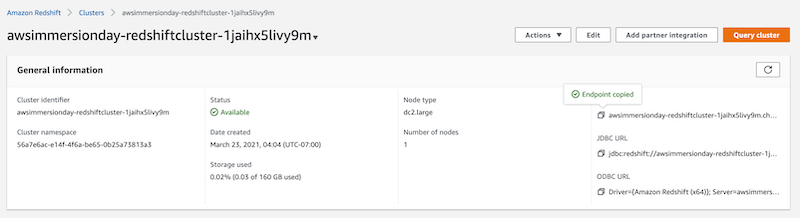
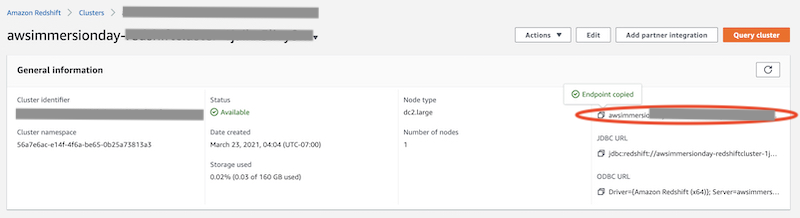
changes

diff --git a/content/redshift-target.md b/content/redshift-target.md
@@ -40,14 +40,17 @@ Go to your EC2 Console and Find Amazon Redshift under "Services"
 
 On your Dashboard you should see your Cluster already running.
 
+![New Endpoint Image](/images/redshift-task-2.png)
+
 Navigate to the Cluster and you should see the properties of your cluster looking something like.
 
 Click on the button to copy the endpoint.
 
 ![New Endpoint Image](/images/redshift-trg-4.png)
 
-Once the endpoint is copied you should see that it has port number and database appended.
-Manually remove the valuess and use endpoint as a reference to fill in the variables.
+__Once the endpoint is copied you should see that it has port number and database appended.__
+
+__Manually remove the valuess and use endpoint as a reference to fill in the variables.__
 
 
 ![New Endpoint Image](/images/redshift-trg-2.png)
